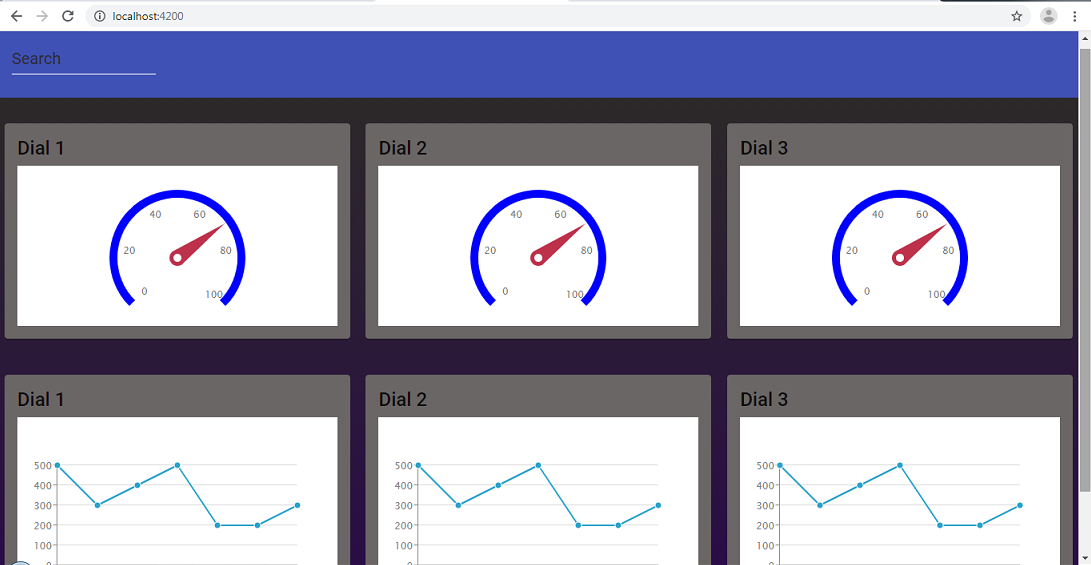
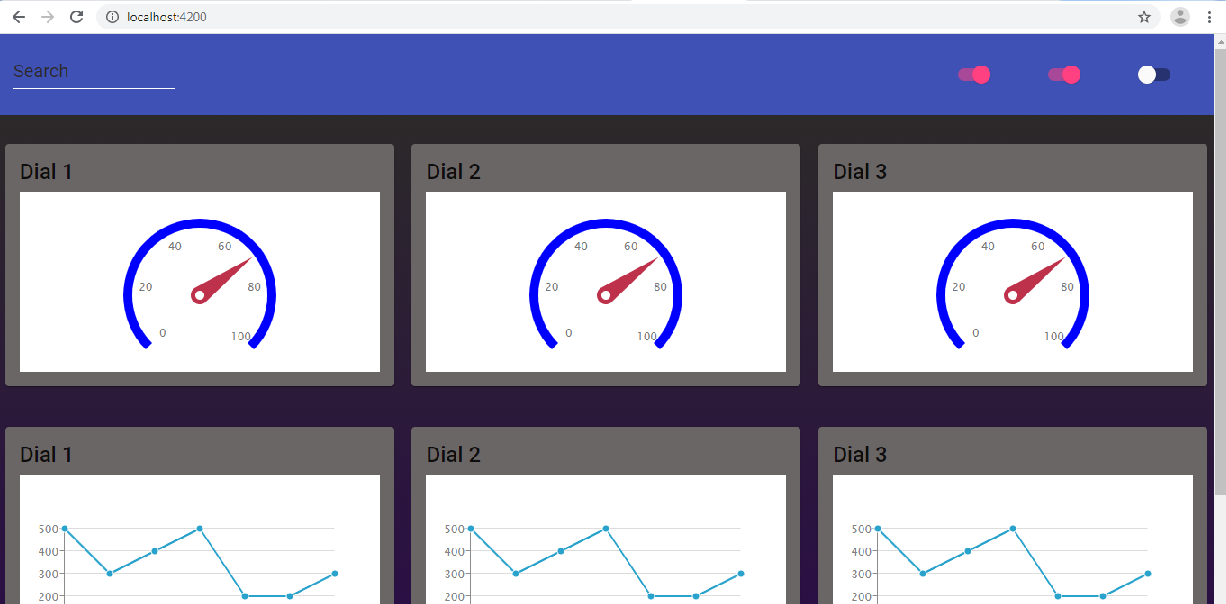
Added the switches

diff --git a/src/app/app.component.html b/src/app/app.component.html
@@ -4,14 +4,20 @@
     <mat-toolbar-row>
       <span>
         <mat-form-field>
-          <input matInput aria-label="Search">
+          <input matInput type="text">
           <mat-placeholder>Search</mat-placeholder>
         </mat-form-field>
       </span>
+      <span class="spacer"></span>
+      <div class="top-toggle">
+       <mat-slide-toggle [checked]="checkedToggle" (toggleChange)="onToggleChange()"></mat-slide-toggle> 
+       <mat-slide-toggle [checked]="checkedToggle" (toggleChange)="onToggleChange()"></mat-slide-toggle> 
+       <mat-slide-toggle [checked]="checkedOtherToggle" (toggleChange)="onToggleChange()"></mat-slide-toggle> 
+      </div>
     </mat-toolbar-row>
   </mat-toolbar>
 
-  <div>
+  <div class="container">
   <!-- Grid-list for different types of charts -->
   <mat-grid-list cols="3" rowHeight="4:3" gutterSize="6px">
     <mat-grid-tile>
@@ -65,3 +71,11 @@
   </mat-grid-list>
 
 </div>
+
+<mat-toolbar color="primary">
+  <mat-toolbar-row>
+    <mat-slide-toggle></mat-slide-toggle> 
+    <mat-slide-toggle></mat-slide-toggle> 
+    <mat-slide-toggle></mat-slide-toggle> 
+  </mat-toolbar-row>
+</mat-toolbar>

diff --git a/src/app/app.module.ts b/src/app/app.module.ts
@@ -3,13 +3,13 @@ import { NgModule, CUSTOM_ELEMENTS_SCHEMA } from '@angular/core';
 
 import { AppComponent } from './app.component';
 import { BrowserAnimationsModule } from '@angular/platform-browser/animations';
-import { MatSliderModule } from '@angular/material/slider';
 import { MatInputModule } from '@angular/material/input';
 import { MatGridListModule } from '@angular/material/grid-list';
 import { CommonModule } from '@angular/common';
 import { MatCardModule } from '@angular/material/card';
 import {MatToolbarModule} from '@angular/material/toolbar';
 import { ZingchartAngularModule } from 'zingchart-angular';
+import { MatSlideToggleModule } from '@angular/material/slide-toggle';
 
 @NgModule({
   declarations: [
@@ -19,12 +19,12 @@ import { ZingchartAngularModule } from 'zingchart-angular';
     CommonModule,
     BrowserModule,
     BrowserAnimationsModule,
-    MatSliderModule,
     MatInputModule,
     MatGridListModule,
     MatToolbarModule,
     MatCardModule,
-    ZingchartAngularModule
+    ZingchartAngularModule,
+    MatSlideToggleModule
   ],
   providers: [],
   bootstrap: [AppComponent],

diff --git a/src/app/app.component.ts b/src/app/app.component.ts
@@ -1,4 +1,4 @@
-import { Component } from '@angular/core';
+import { Component, EventEmitter, Output } from '@angular/core';
 import customers from './customers.js';
 
 @Component({
@@ -7,9 +7,17 @@ import customers from './customers.js';
   styleUrls: ['./app.component.css']
 })
 
+
+
 export class AppComponent {
   customers = customers;
+  
+  @Output()
+  toggleChange:  EventEmitter<void>;
 
+  checkedToggle = true;
+  checkedOtherToggle = false;
+ 
   websiteTraffic: zingchart.graphset = {
     type: 'line',
     series: [{
@@ -67,4 +75,14 @@ export class AppComponent {
       }
     ]
   };
+
+  onToggleChange() {
+    if (this.checkedToggle){
+      this.checkedOtherToggle = true;
+      this.checkedToggle = false;
+    }else{
+      this.checkedToggle = true;
+      this.checkedOtherToggle = false;
+    }
+  } 
 }

diff --git a/src/app/app.component.css b/src/app/app.component.css
@@ -11,6 +11,24 @@ mat-toolbar-row {
     height: 90px !important;
 }
 
-div{
+mat-slide-toggle{
+    padding: 2rem;
+}
+
+input[type=text] {
+    width: 330px;
+    /* -webkit-transition: width 0.4s ease-in-out;
+    transition: width 0.4s ease-in-out; */
+}
+input[type=text]:focus {
+    width: 100%;
+  }
+
+.container{
     background-image: linear-gradient(#2c2929,#2a094b);
 }
+
+.spacer {
+    flex: 1 1 auto;
+}
+
